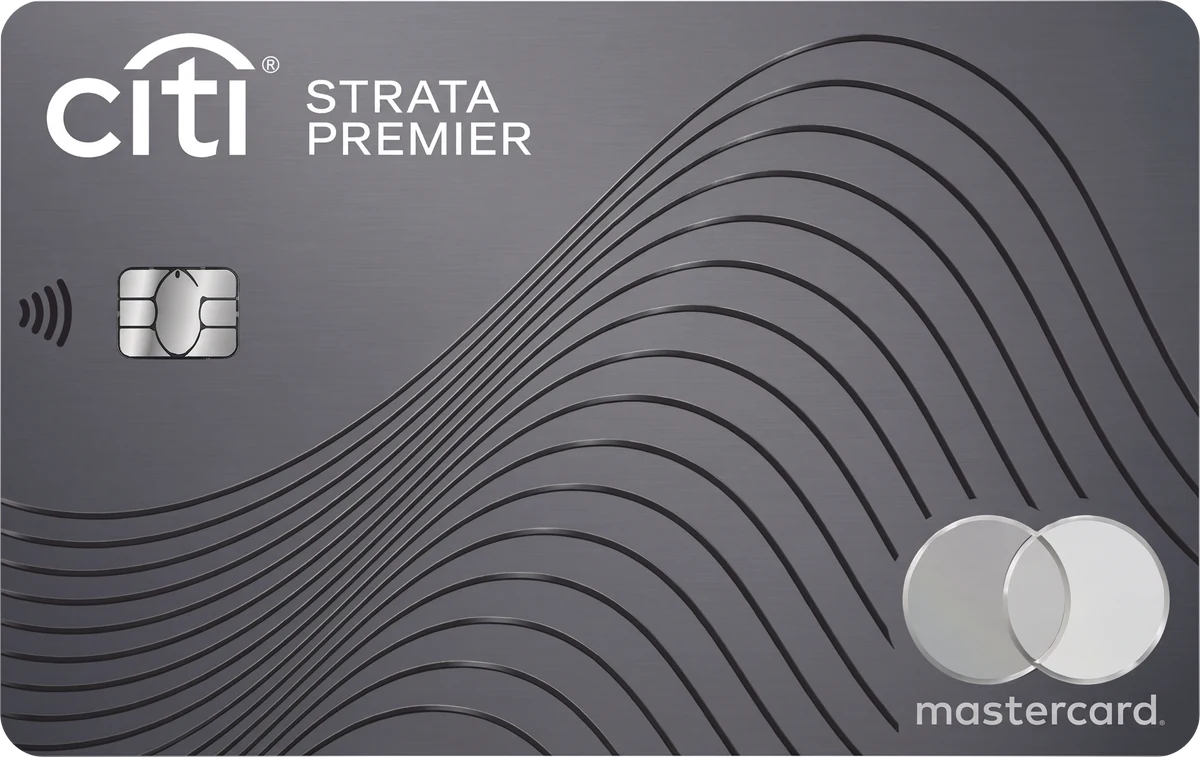
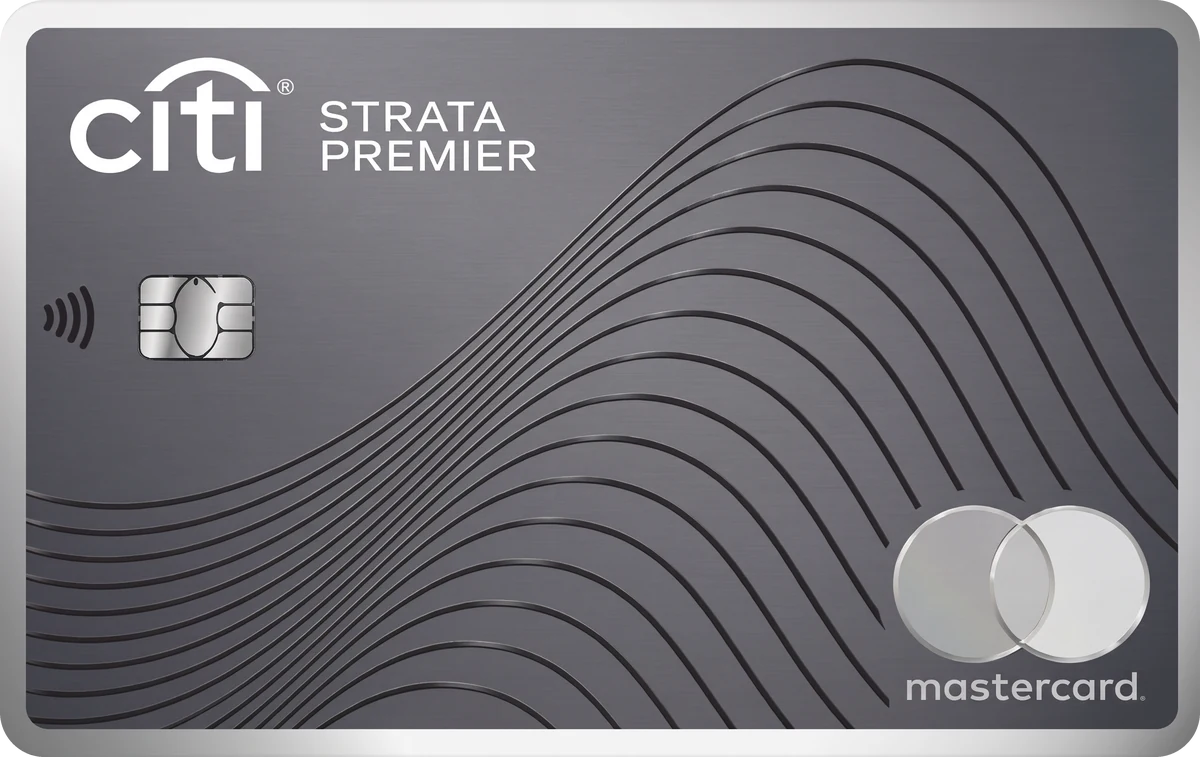
Slate: real-card text sizes on Amex, keep the Citi rim
From the art review: the Amex name, last four and member-since year were
smaller than the real card prints them (now 15 units), and the Citi Strata
Premier crop had cut off the card's polished silver rim. The Citi name now
sits inside the rim, bottom left, as on the real card.

Claude-Session: https://claude.ai/code/session_01BLKyZEff9DWq1j7TqF1Nds

diff --git a/slate/lib/widgets/card_slots.dart b/slate/lib/widgets/card_slots.dart
@@ -45,16 +45,23 @@ List<TextSlot> _backBand(double top, {required double left}) => [
       TextSlot(SlotField.name, left, top + 48, 240, 15, size: 12),
     ];
 
-// Amex fronts: last four just right of the contactless mark, the year under
-// the MEMBER SINCE ribbon, the name along the bottom inside the border.
-List<TextSlot> _amexFront({double contactlessTop = 124, double ribbonBottom = 180, double nameTop = 204}) => [
-      TextSlot(SlotField.last4, 324, contactlessTop, 46, 18, size: 13, weight: FontWeight.w600),
-      TextSlot(SlotField.memberSince, 262, ribbonBottom + 2, 60, 14, size: 11, align: TextAlign.center, weight: FontWeight.w600),
-      TextSlot(SlotField.name, 30, nameTop, 220, 16, size: 13),
+// Amex fronts, at the real card's sizes: last four just right of the
+// contactless mark, the year right under the MEMBER SINCE ribbon, the name
+// along the bottom inside the border.
+List<TextSlot> _amexFront({
+  required double contactlessTop,
+  double ribbonBottom = 180,
+  double nameTop = 204,
+  double nameWidth = 300,
+}) =>
+    [
+      TextSlot(SlotField.last4, 324, contactlessTop, 48, 21, size: 15, weight: FontWeight.w600),
+      TextSlot(SlotField.memberSince, 272, ribbonBottom + 2, 40, 19, size: 15, align: TextAlign.center, weight: FontWeight.w600),
+      TextSlot(SlotField.name, 30, nameTop, nameWidth, 18, size: 15),
     ];
 
 // Slate's own cards: the name at the bottom left, as in the reference design.
-const _slateFront = [TextSlot(SlotField.name, 24, 196, 200, 17, size: 13, weight: FontWeight.w600)];
+const _slateFront = [TextSlot(SlotField.name, 24, 196, 236, 18, size: 14, weight: FontWeight.w600)];
 
 // Blank cards in a chosen colour, for cards the member describes themselves.
 // Every one has its chip at about (43, 82) and contactless top right.
@@ -76,19 +83,19 @@ final cardSlots = <String, List<TextSlot>>{
   'slate_platinum_back': _backBand(136, left: 17),
   'slate_silver_back': _backBand(142, left: 17.5),
   'slate_gold_back': _backBand(140, left: 17),
-  'amex_centurion': _amexFront(contactlessTop: 121),
+  'amex_centurion': _amexFront(contactlessTop: 120),
   'amex_centurion_back': [
     const TextSlot(SlotField.number, 18, 172, 270, 17, size: 14),
     const TextSlot(SlotField.expiry, 18, 193, 120, 13, size: 11),
     const TextSlot(SlotField.name, 18, 211, 240, 14, size: 12),
   ],
-  'amex_platinum': _amexFront(),
+  'amex_platinum': _amexFront(contactlessTop: 122),
   'amex_platinum_back': _backBand(138, left: 16),
-  'amex_gold': _amexFront(contactlessTop: 134, ribbonBottom: 193, nameTop: 209),
+  'amex_gold': _amexFront(contactlessTop: 133, ribbonBottom: 193, nameTop: 212, nameWidth: 236),
   'amex_gold_back': _backBand(150, left: 17),
   'chase_sapphire_reserve_back': _backBand(124, left: 13),
   'capital_one_venture_x_back': _backBand(124, left: 14.5),
-  'citi_strata_premier': const [TextSlot(SlotField.name, 18, 214, 200, 14, size: 12)],
+  'citi_strata_premier': const [TextSlot(SlotField.name, 20, 212, 220, 18, size: 14, weight: FontWeight.w600)],
   'citi_strata_premier_back': _backBand(136, left: 17.5),
   'discover_it_back': _backBand(138, left: 19),
   for (final color in const ['black', 'silver', 'gold', 'blue', 'green', 'rose']) 'custom_$color': _customFront,
